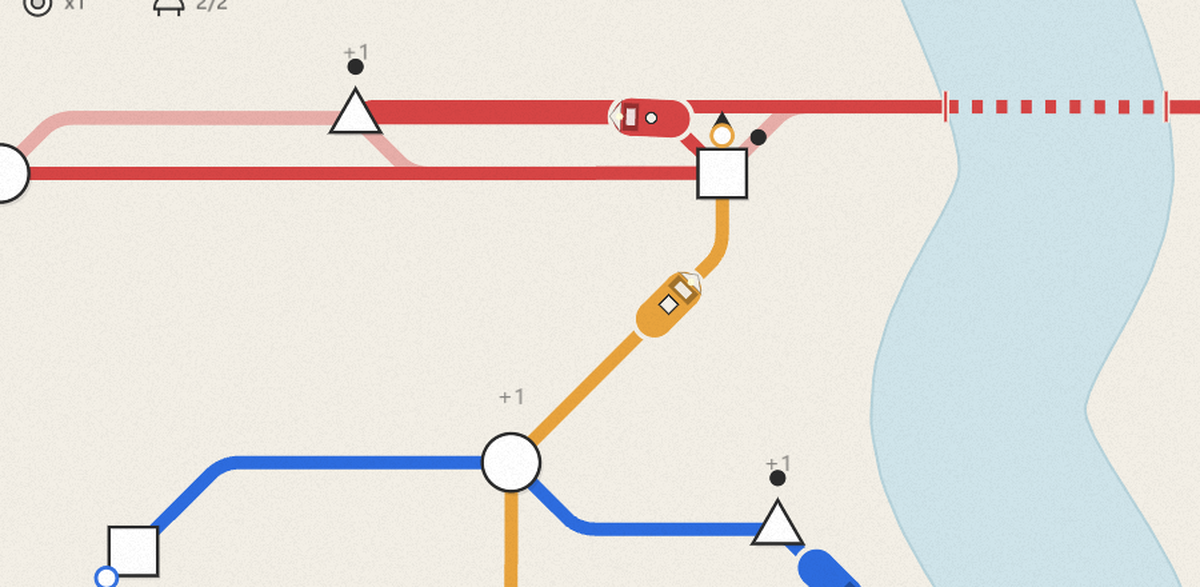
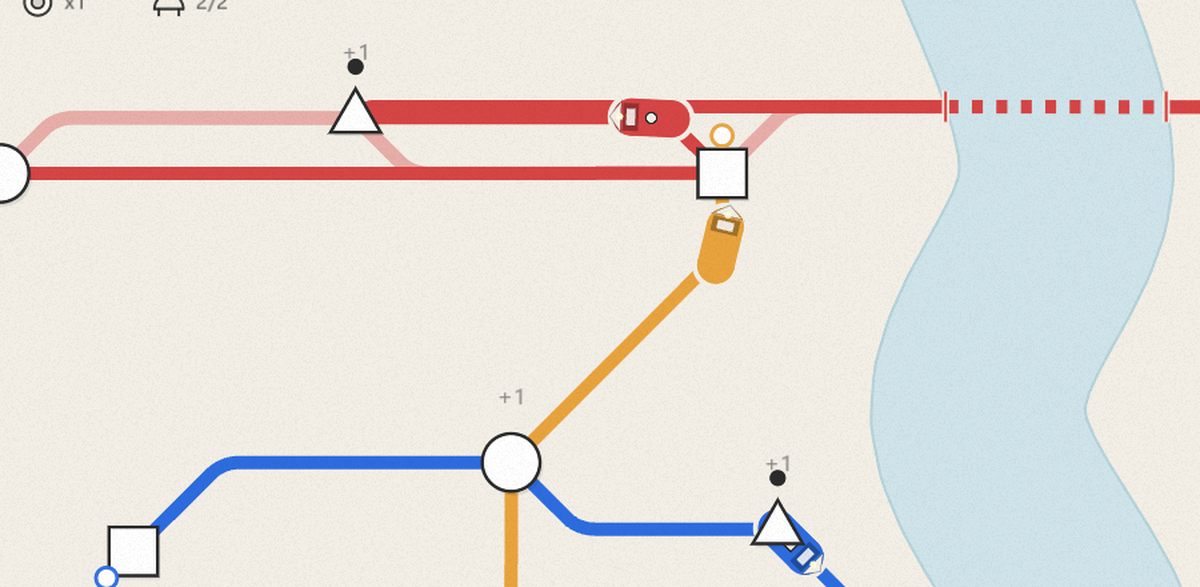
Fix round: on-line marker, geometry-aware legacy ranges, segment dwell
- Near-line marker distance is 30 px and the two white lines now run ON the
  line, using LineGeometry.points_between so they follow bends; spans start
  outside the station icon and are drawn under trains to avoid covering them
- Legacy finish now compares every old/new adjacent station pair (including
  bend-flip state), producing changed arc ranges: trains on unchanged segments
  remap immediately, trains on changed segments keep driving the old geometry
  until a changed-range boundary, and the faded line draws only those ranges.
  This also fixes trains on flip-edited segments jumping straight to the new
  line
- Segment-drag dwell removal no longer depends on the internal drag flag for
  timer accumulation, and a _segment_removed flag makes release skip the
  insert/tap branch so the station cannot be silently re-added
- tests: legacy flip-change traversal, travel-distance check before finishing,
  segment dwell still removes on release; 547 checks total
- docs/images updated (marker along line, legacy difference ranges); no export

diff --git a/docs/设计方案.md b/docs/设计方案.md
@@ -15,11 +15,11 @@
 > **城市地图按真实城市 WGS84 经纬度投影（河道并集渲染，重叠处无接缝）**、
 > **12 小时昼夜时针（含星期）+ 地图夜色滤镜**、**列车/车厢/换乘中心改为库存资源（图标拖放到地图）**、
 > **列车运动学（加减速不突变、弯道限速、0.5s/人停站、无人上下车直接驶过）**、
-> **近线未接入站台的线路标记（20px，两条长白线）**、**拖线段移站/1 秒再接冷却**、
-> **手动改线后只对差异段做浅色旧线收尾**、**拖车换线先下客再移动（目标位置浅色车）**、
+> **近线未接入站台的线路标记（30px，两条沿线路走向的白色长线）**、**拖线段移站/1 秒再接冷却**、
+> **手动改线后只对差异段做浅色旧线收尾（含弯曲方向变化）**、**拖车换线先下客再移动（目标位置浅色车）**、
 > 列车放大 1.5 倍并绘制车头、可点击倍速、
 > **初始 3 条 / 上限 7 条线路**、**闭合环线（列车单向循环、接缝处首末手柄分开）**、
-> 存档与设置、中英双语、Windows 导出。headless 测试 543 checks 全通过，截图见 `docs/images/`。
+> 存档与设置、中英双语、Windows 导出。headless 测试 547 checks 全通过，截图见 `docs/images/`。
 > 运行/测试/导出说明见 [README](../README.md)。
 
 ---
